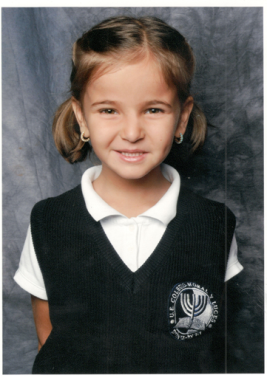
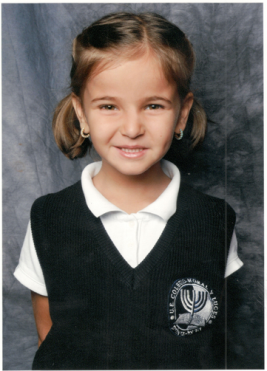
aja

diff --git a/Biografías/Biografia Mi Abuela Elena/BioAbueElena.html b/Biografías/Biografia Mi Abuela Elena/BioAbueElena.html
@@ -23,7 +23,7 @@ body,td,th {
 	font-family: "Times New Roman";
 }
 body {
-	background-image: url(danalevy.github.io/Inicio/fondo-de-papel-viejo-de-la-vendimia-del-grunge_1373-431.jpg);
+	background-image: url("http://danalevy.github.io/Inicio/fondo-de-papel-viejo-de-la-vendimia-del-grunge_1373-431.jpg");
 }
 	-->
 	</STYLE>
@@ -32,7 +32,7 @@ body {
 <P ALIGN=CENTER STYLE="margin-bottom: 0.11in; line-height: 100%"><FONT COLOR="#000000"><FONT FACE="Times New Roman, serif"><FONT SIZE=3><U>Mi
 abuela, Elena Hartman Weisz</U></FONT></FONT></FONT></P>
 <P ALIGN=CENTER STYLE="margin-bottom: 0.11in; line-height: 100%">&nbsp;</P>
-<P ALIGN=JUSTIFY STYLE="margin-bottom: 0.11in; line-height: 100%"><FONT COLOR="#000000"><FONT FACE="Times New Roman, serif"><FONT SIZE=3><font color="#000000"><font face="Times New Roman, serif"><font size=3><font color="#000000"><font face="Times New Roman, serif"><font size=3><font color="#000000"><font face="Times New Roman, serif"><font size=3><img src="Biografia_Mi_Abuela_Elena_html_7b26b41b.png" alt="" width="185" height="244" align="left" hspace="10"/></font></font></font></font></font></font></font></font></font>Mi
+<P ALIGN=JUSTIFY STYLE="margin-bottom: 0.11in; line-height: 100%"><FONT COLOR="#000000"><FONT FACE="Times New Roman, serif"><FONT SIZE=3><font color="#000000"><font face="Times New Roman, serif"><font size=3><font color="#000000"><font face="Times New Roman, serif"><font size=3><font color="#000000"><font face="Times New Roman, serif"><font size=3><img src="1.png" alt="" width="174" height="229" align="left" hspace="10"/></font></font></font></font></font></font></font></font></font>Mi
 abuela Elena nació en la ciudad de Caracas, Venezuela en el Centro
 Médico,&nbsp;el 15 de octubre de 1947, ella vivía junto a sus
 padres Paul Hartman y Magda Weisz y  sus hermanas Vicky y Verónica,

diff --git a/Biografías/Biografia Mi hermanito Eli David/Biografia_Mi_hermanito_Eli_David.html b/Biografías/Biografia Mi hermanito Eli David/Biografia_Mi_hermanito_Eli_David.html
@@ -1,7 +1,7 @@
 <!DOCTYPE HTML PUBLIC "-//W3C//DTD HTML 4.0 Transitional//EN">
 <HTML>
 <HEAD>
-	<META HTTP-EQUIV="Content-Type" CONTENT="text/html; charset=utf-8">
+	<META HTTP-EQUIV="Content-Type" CONTENT="text/html; charset=UTF-8">
 	<TITLE></TITLE>
 	<META NAME="GENERATOR" CONTENT="LibreOffice 4.1.6.2 (Linux)">
 	<META NAME="AUTHOR" CONTENT="Full name">
@@ -23,7 +23,7 @@ body,td,th {
 	font-family: "Times New Roman";
 }
 body {
-	background-image: url(danalevy.github.io/Inicio/fondo-de-papel-viejo-de-la-vendimia-del-grunge_1373-431.jpg);
+	background-image: url("http://danalevy.github.io/Inicio/fondo-de-papel-viejo-de-la-vendimia-del-grunge_1373-431.jpg");
 }
 	-->
 	</STYLE>
@@ -152,9 +152,9 @@ guardería. Mi mamá dice que es horrible dejarlo, puessiempre lloracuando lo de
   David ha estado poco tiempo con nosotros pero desde que llegó a
 llenado nuestra vida de pura felicidad</FONT></FONT></P>
 <P ALIGN=CENTER STYLE="margin-bottom: 0.14in">&nbsp;</P>
-<P ALIGN=CENTER STYLE="margin-bottom: 0.14in"><IMG SRC="Biografia_Mi_hermanito_Eli_David_html_1ef601b5.jpg" NAME="Imagen 9" ALIGN=BOTTOM WIDTH=169 HEIGHT=300 BORDER=0>
+<P ALIGN=CENTER STYLE="margin-bottom: 0.14in"><IMG SRC="Biografia_Mi_hermanito_Eli_David_html_1ef601b5.jpg" NAME="Imagen 9" ALIGN=BOTTOM WIDTH=173 HEIGHT=308 BORDER=0>
   
-<IMG SRC="Biografia_Mi_hermanito_Eli_David_html_3ba8ed9e.png" NAME="Imagen 11" ALIGN=BOTTOM WIDTH=222 HEIGHT=296 BORDER=0></P>
+<IMG SRC="Biografia_Mi_hermanito_Eli_David_html_3ba8ed9e.png" NAME="Imagen 11" ALIGN=BOTTOM WIDTH=231 HEIGHT=308 BORDER=0></P>
 <P ALIGN=CENTER STYLE="margin-bottom: 0.14in">&nbsp;</P>
 <P ALIGN=CENTER STYLE="margin-bottom: 0.14in">&nbsp;</P>
 <P ALIGN=CENTER STYLE="margin-bottom: 0.14in"><FONT FACE="Times New Roman, serif"><FONT SIZE=3><U>Documentos</U></FONT></FONT></P>

diff --git a/Biografías/Biografia Mi hermanita Analy/Biografia_Mi_hermanita_Analy.html b/Biografías/Biografia Mi hermanita Analy/Biografia_Mi_hermanita_Analy.html
@@ -19,8 +19,8 @@
 	<!--
 		@page { size: 8.5in 11in; margin-left: 1.18in; margin-right: 1.18in; margin-top: 0.98in; margin-bottom: 0.98in }
 		P { margin-bottom: 0.08in; direction: ltr; widows: 2; orphans: 2 }
-		body { 
-			background-image: url(danalevy.github.io/Inicio/fondo-de-papel-viejo-de-la-vendimia-del-grunge_1373-431.jpg);
+		body {
+			background-image: url("http://danalevy.github.io/Inicio/fondo-de-papel-viejo-de-la-vendimia-del-grunge_1373-431.jpg");
 		}
 	-->
 	</STYLE>
@@ -28,12 +28,12 @@
 <BODY LANG="es-VE" DIR="LTR">
 <P ALIGN=CENTER STYLE="margin-bottom: 0.14in"><FONT FACE="Times New Roman, serif"><FONT SIZE=3><SPAN LANG="en-US"><U>Mi
 hermanita, Analy Levy</U></SPAN></FONT></FONT></P>
-<P STYLE="margin-bottom: 0.14in"><A NAME="_GoBack" align="center"></A>  
+<P STYLE="margin-bottom: 0.14in" align="center"><A NAME="_GoBack" align="center"></A>  
 <IMG SRC="Biografia_Mi_hermanita_Analy_html_bba2151a.jpg" NAME="Imagen 2" ALIGN=BOTTOM WIDTH=216 HEIGHT=160 BORDER=0>
         
 <IMG SRC="Biografia_Mi_hermanita_Analy_html_5775afb9.jpg" NAME="Imagen 1" ALIGN=BOTTOM WIDTH=216 HEIGHT=162 BORDER=0>
         
-<IMG SRC="Biografia_Mi_hermanita_Analy_html_81eaeb56.png" NAME="Imagen 5" ALIGN=BOTTOM WIDTH=116 HEIGHT=164 BORDER=0></P>
+<IMG SRC="Biografia_Mi_hermanita_Analy_html_81eaeb56.png" NAME="Imagen 5" ALIGN=BOTTOM WIDTH=116 HEIGHT=162 BORDER=0></P>
 <P ALIGN=JUSTIFY STYLE="margin-bottom: 0.14in"><FONT FACE="Times New Roman, serif"><FONT SIZE=3><SPAN LANG="en-US">Mi
 hermanita, nació cuando yo tenía casi siete años, el 13 de abril
 del 2010, recuerdo ese día con especial cariño ya que del

diff --git a/Biografías/Biografia Dana Levy/Biografia_Dana_Levy.html b/Biografías/Biografia Dana Levy/Biografia_Dana_Levy.html
@@ -1,7 +1,7 @@
 <!DOCTYPE HTML PUBLIC "-//W3C//DTD HTML 4.0 Transitional//EN">
 <HTML>
 <HEAD>
-	<META HTTP-EQUIV="Content-Type" CONTENT="text/html; charset=utf-8">
+	<META HTTP-EQUIV="Content-Type" CONTENT="text/html; charset=UTF-8">
 	<TITLE></TITLE>
 	<META NAME="GENERATOR" CONTENT="LibreOffice 4.1.6.2 (Linux)">
 	<META NAME="AUTHOR" CONTENT="Luffi">
@@ -23,7 +23,7 @@ body,td,th {
 	font-family: "Times New Roman";
 }
 body {
-	background-image: url(danalevy.github.io/Inicio/fondo-de-papel-viejo-de-la-vendimia-del-grunge_1373-431.jpg);
+	background-image: url("http://danalevy.github.io/Inicio/fondo-de-papel-viejo-de-la-vendimia-del-grunge_1373-431.jpg");
 }
 	-->
 	</STYLE>

diff --git a/Biografías/Biografia Mi abuelo Arie/Biogarfia_Mi_abuelo_Arie.html b/Biografías/Biografia Mi abuelo Arie/Biogarfia_Mi_abuelo_Arie.html
@@ -19,9 +19,9 @@
 	<!--
 		@page { size: 8.5in 11in; margin-left: 1.18in; margin-right: 1.18in; margin-top: 0.98in; margin-bottom: 0.98in }
 		P { margin-bottom: 0.08in; direction: ltr; widows: 2; orphans: 2 }
-		body { 
-			background-image: url(danalevy.github.io/Inicio/fondo-de-papel-viejo-de-la-vendimia-del-grunge_1373-431.jpg);
-		}
+		body {
+			background-image: url("http://danalevy.github.io/Inicio/fondo-de-papel-viejo-de-la-vendimia-del-grunge_1373-431.jpg");
+		}	
 	-->
 	</STYLE>
 </HEAD>

diff --git a/Biografías/Biografia Mi Papa/Biografia_Mi_Papa.html b/Biografías/Biografia Mi Papa/Biografia_Mi_Papa.html
@@ -21,7 +21,7 @@
 		P { margin-bottom: 0.08in; direction: ltr; widows: 2; orphans: 2 }
 	-->
 		body {
-			background-image: url(danalevy.github.io/Inicio/fondo-de-papel-viejo-de-la-vendimia-del-grunge_1373-431.jpg);
+			background-image: url("http://danalevy.github.io/Inicio/fondo-de-papel-viejo-de-la-vendimia-del-grunge_1373-431.jpg");
 		}
 	</STYLE>
 </HEAD>

diff --git a/Biografías/Biografia Mi Abuela Sarina/BioAbueSarina.html b/Biografías/Biografia Mi Abuela Sarina/BioAbueSarina.html
@@ -23,7 +23,7 @@ body,td,th {
 	font-family: "Times New Roman";
 }
 body {
-	background-image: url(danalevy.github.io/Inicio/fondo-de-papel-viejo-de-la-vendimia-del-grunge_1373-431.jpg);
+	background-image: url("http://danalevy.github.io/Inicio/fondo-de-papel-viejo-de-la-vendimia-del-grunge_1373-431.jpg");
 }
 	-->
 	</STYLE>

diff --git a/Biografías/Biografia Mi Mama/Biografia_Mi_Mama.html b/Biografías/Biografia Mi Mama/Biografia_Mi_Mama.html
@@ -23,7 +23,7 @@ body,td,th {
 	font-family: "Times New Roman";
 }
 body {
-	background-image: url(danalevy.github.io/Inicio/fondo-de-papel-viejo-de-la-vendimia-del-grunge_1373-431.jpg);
+	background-image: url("http://danalevy.github.io/Inicio/fondo-de-papel-viejo-de-la-vendimia-del-grunge_1373-431.jpg");
 }
 	-->
 	</STYLE>

diff --git a/Biografías/Biografia Mi abuelo Nico/Biogarfia_Mi_abuelo_Nico.html b/Biografías/Biografia Mi abuelo Nico/Biogarfia_Mi_abuelo_Nico.html
@@ -26,7 +26,7 @@ body,td,th {
 	font-family: "Times New Roman";
 }
 body {
-	background-image: url(danalevy.github.io/Inicio/fondo-de-papel-viejo-de-la-vendimia-del-grunge_1373-431.jpg);
+	background-image: url("http://danalevy.github.io/Inicio/fondo-de-papel-viejo-de-la-vendimia-del-grunge_1373-431.jpg");
 }
 	-->
 	</STYLE>

diff --git a/Biografías/Biografia Mi hermana Vivi/Biografia_Mi_hermana_Vivi.html b/Biografías/Biografia Mi hermana Vivi/Biografia_Mi_hermana_Vivi.html
@@ -23,7 +23,7 @@ body,td,th {
 	font-family: "Times New Roman";
 }
 body {
-	background-image: url(danalevy.github.io/Inicio/fondo-de-papel-viejo-de-la-vendimia-del-grunge_1373-431.jpg);
+	background-image: url("http://danalevy.github.io/Inicio/fondo-de-papel-viejo-de-la-vendimia-del-grunge_1373-431.jpg");
 }
 	-->
 	</STYLE>

diff --git a/Biografías/Biografia Mi hermanito Arie/Biografia_Mi_hermanito_Arie.html b/Biografías/Biografia Mi hermanito Arie/Biografia_Mi_hermanito_Arie.html
@@ -23,7 +23,7 @@ body,td,th {
 	font-family: "Times New Roman";
 }
 body {
-	background-image: url(danalevy.github.io/Inicio/fondo-de-papel-viejo-de-la-vendimia-del-grunge_1373-431.jpg);
+	background-image: url("http://danalevy.github.io/Inicio/fondo-de-papel-viejo-de-la-vendimia-del-grunge_1373-431.jpg");
 }
 	-->
 	</STYLE>
